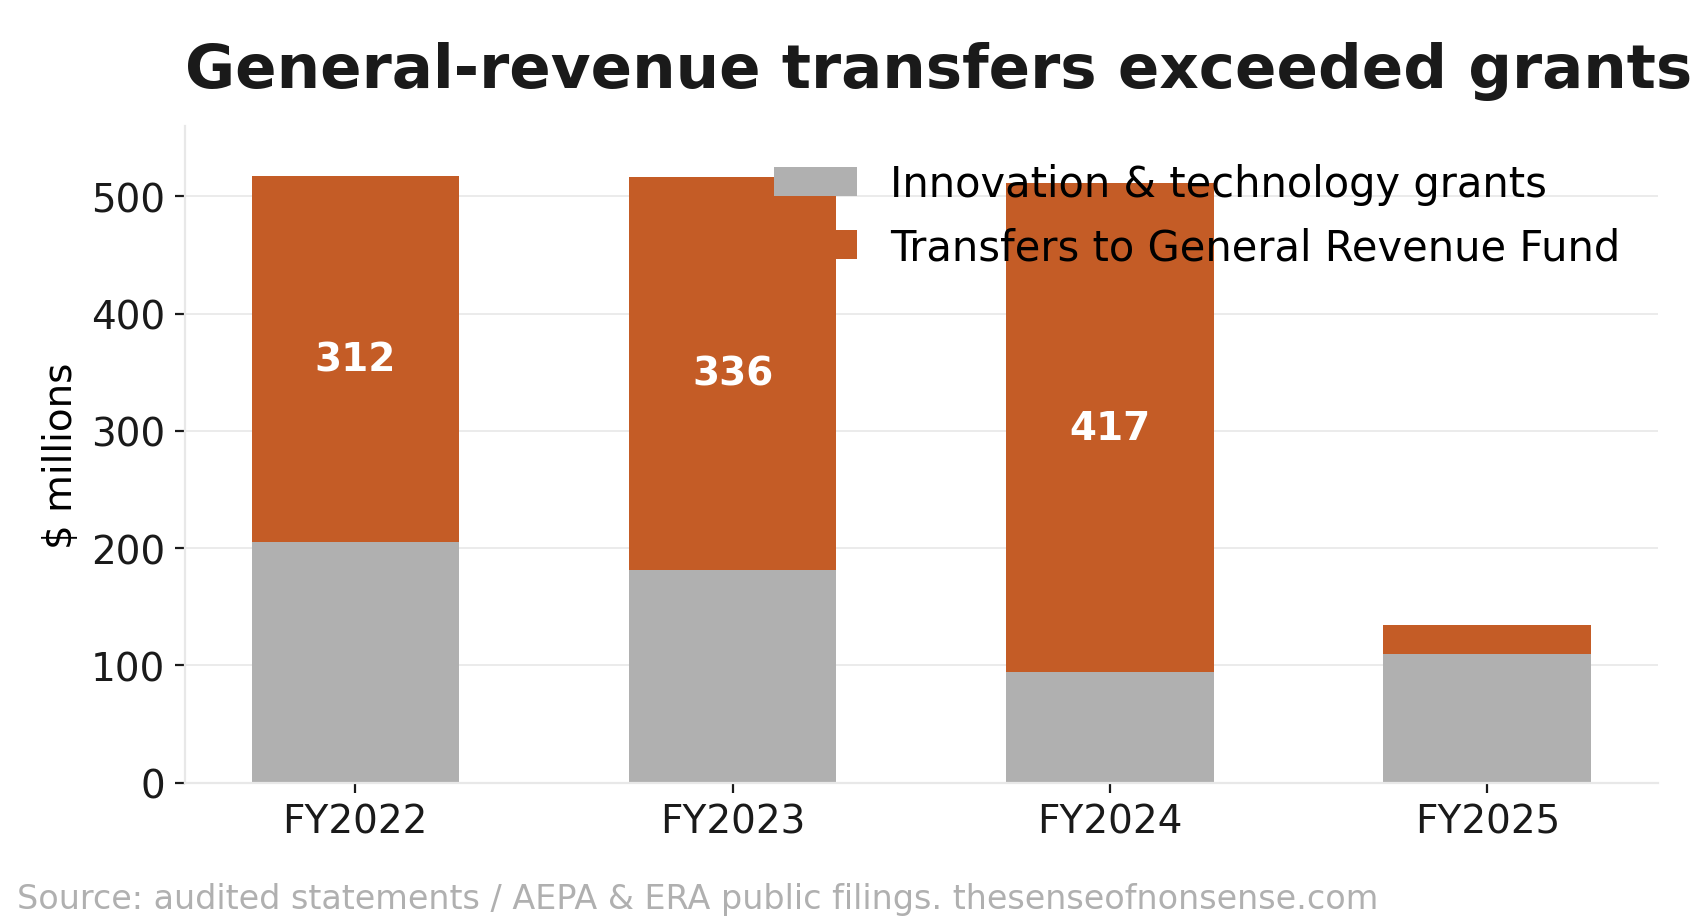
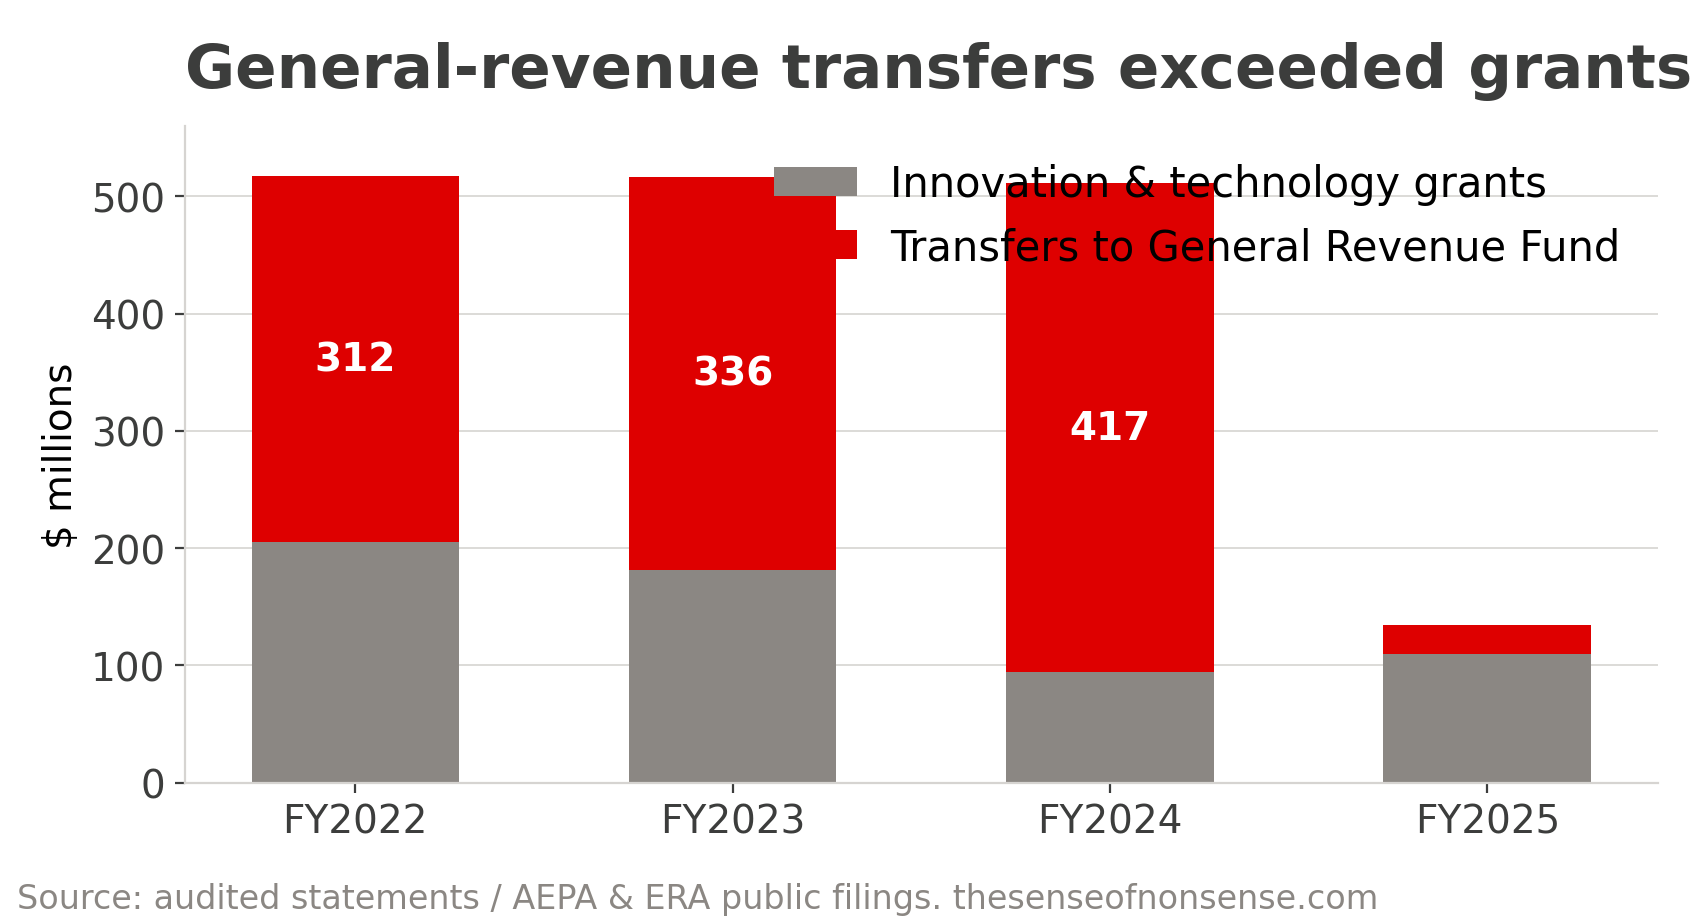
Shift brand palette to glossy red and dark greys.

diff --git a/themes/sense/static/css/sense.css b/themes/sense/static/css/sense.css
@@ -1,24 +1,25 @@
 /* === The Sense of Nonsense — Magazine Theme === */
-/* Light, image-led — Walrus / Atlantic / Vox adjacent */
+/* Light, image-led — red & dark grey palette */
 
 @import url('https://fonts.googleapis.com/css2?family=Libre+Franklin:ital,wght@0,400;0,500;0,600;0,700;1,400&family=Source+Serif+4:ital,opsz,wght@0,8..60,400;0,8..60,600;0,8..60,700;1,8..60,400;1,8..60,600&display=swap');
 
 :root {
+  /* Red & dark grey: Glossy Red / Deep Bright Red / Rich Grey / Manhattan / Titanium */
   --color-bg: #FFFFFF;
   --color-surface: #FFFFFF;
-  --color-wash: #F4F2ED;
-  --color-text: #1A1A1A;
-  --color-text-soft: #3D3D3D;
-  --color-text-muted: #6B6B6B;
-  --color-border: #E6E2DA;
-  --color-border-light: #F0EDE7;
-  --color-accent: #C45C26;
-  --color-accent-hover: #A34A1C;
-  --color-link: #1A1A1A;
-  --color-link-hover: #C45C26;
-  --color-selection: rgba(196, 92, 38, 0.18);
-  --color-blockquote: #F7F5F0;
-  --color-code-bg: #F4F2ED;
+  --color-wash: #F3F3F2;
+  --color-text: #3C3D3C;
+  --color-text-soft: #525252;
+  --color-text-muted: #8B8783;
+  --color-border: #D6D4D1;
+  --color-border-light: #EAE9E7;
+  --color-accent: #DE0000;
+  --color-accent-hover: #B50000;
+  --color-link: #3C3D3C;
+  --color-link-hover: #DE0000;
+  --color-selection: rgba(222, 0, 0, 0.16);
+  --color-blockquote: #F3F3F2;
+  --color-code-bg: #F3F3F2;
 
   --font-serif: 'Source Serif 4', Georgia, 'Times New Roman', serif;
   --font-sans: 'Libre Franklin', -apple-system, BlinkMacSystemFont, 'Segoe UI', sans-serif;

diff --git a/themes/sense/layouts/_default/baseof.html b/themes/sense/layouts/_default/baseof.html
@@ -9,8 +9,8 @@
   <link rel="icon" href="/favicon.svg" type="image/svg+xml" />
   <link rel="icon" href="/favicon-32.png" type="image/png" sizes="32x32" />
   <link rel="apple-touch-icon" href="/apple-touch-icon.png" />
-  <meta name="theme-color" content="#C45C26" />
-  <link rel="stylesheet" href="/css/sense.css?v=5" />
+  <meta name="theme-color" content="#DE0000" />
+  <link rel="stylesheet" href="/css/sense.css?v=6" />
   {{ block "extrahead" . }}{{ end }}
 </head>
 <body class="{{ if .IsHome }}home{{ else if .IsPage }}singular{{ else }}listing{{ end }}">

diff --git a/scripts/regen-tier-charts.py b/scripts/regen-tier-charts.py
@@ -13,15 +13,15 @@ ROOT = Path(__file__).resolve().parents[1]
 SERIES = ROOT / "content" / "series" / "the-tier-files"
 
 BG = "#FFFFFF"
-WASH = "#F7F5F0"
-INK = "#1A1A1A"
-MUTED = "#B0B0B0"
-MUTED_LIGHT = "#D0D0D0"
-HIGHLIGHT = "#C45C26"  # Sense of Nonsense brand
-SECONDARY = "#4A4A4A"
-GRID = "#E8E8E8"
-POS = "#2F6F4E"
-NEG = "#C45C26"
+WASH = "#F3F3F2"
+INK = "#3C3D3C"       # Rich Grey
+MUTED = "#8B8783"    # Titanium
+MUTED_LIGHT = "#C5C3C0"
+HIGHLIGHT = "#DE0000"  # Glossy Red
+SECONDARY = "#525252"  # Manhattan Gray
+GRID = "#D6D4D1"
+POS = "#525252"
+NEG = "#B50000"      # Deep Bright Red
 SOURCE = "Source: audited statements / AEPA & ERA public filings. thesenseofnonsense.com"
 
 plt.rcParams.update({
@@ -75,7 +75,7 @@ def make_cover(chart_path: Path, out: Path, part: int, title: str):
     d = ImageDraw.Draw(cover)
     d.rectangle([0, 0, 8, H], fill=HIGHLIGHT)
     d.rectangle([0, H - band_h, W, H], fill=BG)
-    d.line([(pad, H - band_h), (W - pad, H - band_h)], fill="#E6E2DA", width=2)
+    d.line([(pad, H - band_h), (W - pad, H - band_h)], fill="#D6D4D1", width=2)
     try:
         fk = ImageFont.truetype("C:/Windows/Fonts/arialbd.ttf", 26)
         ft = ImageFont.truetype("C:/Windows/Fonts/georgia.ttf", 48)
@@ -85,7 +85,7 @@ def make_cover(chart_path: Path, out: Path, part: int, title: str):
     y0 = H - band_h + 28
     d.text((pad + 6, y0), f"THE TIER FILES  ·  PART {part}", fill=HIGHLIGHT, font=fk)
     d.text((pad + 6, y0 + 42), title, fill=INK, font=ft)
-    d.text((pad + 6, H - 42), "thesenseofnonsense.com", fill="#6B6B6B", font=fs)
+    d.text((pad + 6, H - 42), "thesenseofnonsense.com", fill="#8B8783", font=fs)
     cover.save(out, "PNG", optimize=True)
     print("wrote", out.relative_to(ROOT))
 
@@ -117,7 +117,7 @@ save(fig, p1 / "tier-fund-flow.png")
 
 # ratio
 fig, ax = plt.subplots(figsize=(8.5, 3.8))
-style_ax(ax, "$1.85 to general revenue for every dollar granted")
+style_ax(ax, "$1.85 to general revenue per dollar granted")
 vals = [590.0, 1088.8]
 labs = ["Innovation & technology grants\n$590M (4-year)", "Transfers to General Revenue Fund\n$1,089M (4-year)"]
 cols = [MUTED, HIGHLIGHT]

diff --git a/content/series/the-tier-files/part-4-the-float/index.md b/content/series/the-tier-files/part-4-the-float/index.md
@@ -42,7 +42,7 @@ Add it up and you get about $650 million actually delivered to projects across t
 
 The number ERA publishes about itself, as of June 2026, is $1.17 billion committed toward 352 projects since 2009. Set those two figures side by side and sit with them a moment. This is a seventeen-year-old organization whose whole job is moving money to emissions reduction projects, and somewhere between 55 and 60 cents of every dollar it currently claims to have committed has ever made it out the door. The rest is either still working through the milestone pipeline, at $375 million of outstanding commitments as of last May, or it belongs to a category the press releases never revisit, which is the money that got announced and then quietly un-happened.
 
-![Line chart of cumulative CCEMC and ERA project disbursements reaching about 655 million dollars by fiscal 2025, far below the dashed line marking the 1,170 million dollar commitment headline, with annual cancellation values annotated.](era-float.png?v=2)
+![Line chart of cumulative CCEMC and ERA project disbursements reaching about 655 million dollars by fiscal 2025, far below the dashed line marking the 1,170 million dollar commitment headline, with annual cancellation values annotated.](era-float.png?v=3)
 
 *Sixteen years of disbursements against the current headline. FY2015 interpolated because the statements were never published.*
 
@@ -60,7 +60,7 @@ In fiscal 2025 the machine hit a milestone of sorts, because the value of agreem
 
 > **In fiscal 2025, Alberta's flagship clean technology funder un-funded more than it funded.**
 
-![Bar chart of contribution agreement value cancelled or terminated each year, rising from 19.9 million dollars in fiscal 2022 to 82.7 million in fiscal 2025, crossing above the dashed line marking the 71.7 million actually paid to projects that year.](p4-cancellations.png?v=2)
+![Bar chart of contribution agreement value cancelled or terminated each year, rising from 19.9 million dollars in fiscal 2022 to 82.7 million in fiscal 2025, crossing above the dashed line marking the 71.7 million actually paid to projects that year.](p4-cancellations.png?v=3)
 
 *The un-funding curve crossed the funding line in fiscal 2025.*
 
@@ -72,7 +72,7 @@ So what happens to a dollar committed to a project that will never exist? This i
 
 Nothing happens to it. That's the answer. It never left ERA in the first place, so there is nothing to recover and nobody to chase. The commitment quietly comes off the books, the cash stays exactly where it has been all along, in the $539.5 million of cash and GICs from last instalment, and the dollar goes back into the pool to await its next announcement. ERA has earned over $104 million in interest in the past five years by holding money in exactly this way, and in fiscal 2024 its interest income was more than half its grant revenue, which is a strange ratio for a granting agency and a perfectly normal one for a bank.
 
-![Flow diagram tracing an announced dollar from press release into the float at ERA, then out either as milestone payments of roughly 55 to 60 cents per dollar or into the quiet-death categories, with dead dollars cycling back to be re-announced, clawed back, or reallocated.](p4-lifecycle.png?v=2)
+![Flow diagram tracing an announced dollar from press release into the float at ERA, then out either as milestone payments of roughly 55 to 60 cents per dollar or into the quiet-death categories, with dead dollars cycling back to be re-announced, clawed back, or reallocated.](p4-lifecycle.png?v=3)
 
 *Sixteen years of audited statements, drawn as a flowchart.*
 

diff --git a/content/series/the-tier-files/part-1-the-billion-dollar-detour/index.md b/content/series/the-tier-files/part-1-the-billion-dollar-detour/index.md
@@ -43,7 +43,7 @@ That matters because Alberta's flagship industrial climate program derives much 
 
 But the numbers tell a messier story.
 
-![Flow diagram tracing a compliance dollar from a regulated facility into the TIER Fund, then out as grants, general-revenue transfers, or held surplus.](p1-path.png?v=2)
+![Flow diagram tracing a compliance dollar from a regulated facility into the TIER Fund, then out as grants, general-revenue transfers, or held surplus.](p1-path.png?v=3)
 
 *Where a compliance dollar goes, drawn from the Statement of Operations. Surplus is a stock; grants and transfers are four-year flows.*
 
@@ -72,7 +72,7 @@ Here is the fund's own accounting for fiscal years ended March 31, in thousands 
 | Transfers to General Revenue Fund | 311,949 | 335,451 | 416,666 | 24,699 |
 | Accumulated surplus, year end | 336,805 | 591,821 | 1,016,606 | 1,105,432 |
 
-![Stacked bar chart of TIER Fund outflows by fiscal year, FY2022 to FY2025, showing transfers to the General Revenue Fund exceeding innovation and technology grants in every year.](tier-fund-flow.png?v=2)
+![Stacked bar chart of TIER Fund outflows by fiscal year, FY2022 to FY2025, showing transfers to the General Revenue Fund exceeding innovation and technology grants in every year.](tier-fund-flow.png?v=3)
 
 *In every year, the transfer to general revenue exceeded the emissions reduction grants.*
 
@@ -82,7 +82,7 @@ Across the four years, the fund moved $1,088.8 million into general revenue and 
 
 > **For every dollar that went to emissions reduction technology (much of it routed to Emissions Reduction Alberta), about $1.85 went to the government's general accounts.**
 
-![Horizontal comparison of four-year TIER Fund grants at 590 million dollars against general-revenue transfers at 1,088.8 million dollars.](p1-ratio.png?v=2)
+![Horizontal comparison of four-year TIER Fund grants at 590 million dollars against general-revenue transfers at 1,088.8 million dollars.](p1-ratio.png?v=3)
 
 *$1.85 to general revenue for every grant dollar. The surplus pile is separate.*
 
@@ -96,7 +96,7 @@ And then there is the bottom row.
 
 While all this money moved through, the fund's accumulated surplus grew from $337 million to $1.105 billion. That is compliance money collected from industry, not granted, not transferred, just held.
 
-![Area chart of the TIER Fund accumulated surplus growing from 337 million dollars at the end of FY2022 to 1,105 million dollars at the end of FY2025.](tier-surplus.png?v=2)
+![Area chart of the TIER Fund accumulated surplus growing from 337 million dollars at the end of FY2022 to 1,105 million dollars at the end of FY2025.](tier-surplus.png?v=3)
 
 *The fund's accumulated surplus tripled in four years and now exceeds $1.1 billion.*
 
@@ -130,7 +130,7 @@ This series is about what the disclosed numbers say once you actually read them 
 
 Look again at that FY2025 revenue figure: $223 million, down 76 per cent from the year before.
 
-![Bar chart of TIER Fund annual revenue: 709 million dollars in FY2022, 772 million in FY2023, 936 million in FY2024, then a 76 per cent collapse to 223 million in FY2025.](tier-revenue.png?v=2)
+![Bar chart of TIER Fund annual revenue: 709 million dollars in FY2022, 772 million in FY2023, 936 million in FY2024, then a 76 per cent collapse to 223 million in FY2025.](tier-revenue.png?v=3)
 
 *Compliance revenue collapsed in FY2025 as facilities switched to discounted credits.*
 

diff --git a/content/series/the-tier-files/part-3-the-climate-fund-that-became-a-bank/index.md b/content/series/the-tier-files/part-3-the-climate-fund-that-became-a-bank/index.md
@@ -23,7 +23,7 @@ If you have ever laddered GICs for a retired parent, the following will feel war
 
 As of May 31, 2025, Emissions Reduction Alberta, the arm's-length agency that receives the largest share of Alberta's industrial carbon compliance grants, held $40 million in short-term GICs at Scotiabank and Canadian Western Bank earning between 4.54 and 5.49 per cent, and another $190 million in long-term GICs at Scotiabank and ATB, maturing between November 2026 and April 2027, earning between 3.75 and 4.14 per cent. Add the $309.5 million sitting in plain cash and you get $539.5 million, parked.
 
-![A statement-style panel reproducing ERA's disclosed holdings: 309.5 million dollars cash, 40 million in short-term GICs at Scotiabank and CWB, 190 million in long-term GICs at Scotiabank and ATB maturing November 2026 to April 2027, totalling 539.5 million.](p3-ladder.png?v=2)
+![A statement-style panel reproducing ERA's disclosed holdings: 309.5 million dollars cash, 40 million in short-term GICs at Scotiabank and CWB, 190 million in long-term GICs at Scotiabank and ATB maturing November 2026 to April 2027, totalling 539.5 million.](p3-ladder.png?v=3)
 
 *The ladder as disclosed, reformatted from Note 5. It reads like a retirement statement because structurally it is one. (Institution totals only; Note 5 does not break the GIC amounts per bank.)*
 
@@ -31,7 +31,7 @@ That's from Note 5 of ERA's own audited statements, and honestly it's a perfectl
 
 > **An agency does not ladder money into 2027 that it intends to spend soon. The portfolio is the strategy, written down.**
 
-![Combination chart showing ERA's cash and investment holdings of roughly half a billion dollars hovering far above annual project disbursements of 44 to 101 million per year, fiscal 2021 through 2025.](p3-holdings.png?v=2)
+![Combination chart showing ERA's cash and investment holdings of roughly half a billion dollars hovering far above annual project disbursements of 44 to 101 million per year, fiscal 2021 through 2025.](p3-holdings.png?v=3)
 
 *Roughly seven and a half years of disbursements, held.*
 
@@ -41,7 +41,7 @@ Some context for the pile. ERA paid out $71.7 million to projects last year. So 
 
 Meanwhile the interest accumulates the way interest does. $4.6 million, then $5.3 million, then $19.2 million, then $29.7 million, then $25.6 million over the past five years, which comes to just over $104 million earned by not spending money. In fiscal 2024 the arrangement achieved something I want to make sure you don't skim past: ERA's interest income, at $29.7 million, exceeded half of its grant revenue for the year, which was $51.9 million. For every two dollars the government gave the agency to fund clean technology, the agency made another dollar by holding what it already had.
 
-![Bar chart of ERA interest income rising from 4.6 million dollars in fiscal 2021 to a peak of 29.7 million in fiscal 2024, highlighted because it exceeded half of that year's grant revenue.](p3-interest.png?v=2)
+![Bar chart of ERA interest income rising from 4.6 million dollars in fiscal 2021 to a peak of 29.7 million in fiscal 2024, highlighted because it exceeded half of that year's grant revenue.](p3-interest.png?v=3)
 
 *Just over $104 million earned in five years by not spending money.*
 

diff --git a/content/series/the-tier-files/part-2-the-eight-million-dollar-regulator/index.md b/content/series/the-tier-files/part-2-the-eight-million-dollar-regulator/index.md
@@ -33,7 +33,7 @@ Here is what that line has looked like in the government's own estimates and yea
 | 2025-26 | 10,541 | 10,541 (forecast) |
 | 2026-27 | 10,541 | estimate year |
 
-![Grouped bar chart of AEPA program 9.1: the voted budget sits at exactly 10.541 million dollars in five consecutive budgets while actual spending came in at 7.1, 7.5, and 8.2 million.](p2-frozen-line.png?v=2)
+![Grouped bar chart of AEPA program 9.1: the voted budget sits at exactly 10.541 million dollars in five consecutive budgets while actual spending came in at 7.1, 7.5, and 8.2 million.](p2-frozen-line.png?v=3)
 
 *Five budgets, one number, underspent in every completed year.*
 
@@ -49,11 +49,11 @@ It's hard to feel a number like $8.2 million without something beside it, so her
 
 Emissions Reduction Alberta, the arm's-length agency that receives the grants and writes the cheques (and which we will spend considerable time with later in this series), reported operating expenses of $11.4 million in its most recent year, and between $9.5 and $11.4 million in each of the past four. So the organization that distributes the money costs more to run, every single year, than the entire provincial operation that regulates the market the money comes from. The cheque-writer out-budgets the referee.
 
-![Grouped bar chart comparing AEPA climate regulatory operations spending of 7 to 8 million dollars per year against ERA operating expenses of 9.5 to 11.4 million per year.](p2-referee-vs-bank.png?v=2)
+![Grouped bar chart comparing AEPA climate regulatory operations spending of 7 to 8 million dollars per year against ERA operating expenses of 9.5 to 11.4 million per year.](p2-referee-vs-bank.png?v=3)
 
 *The agency distributing the money costs more to run than the operation regulating the market. Fiscal years differ by two months (AEPA March 31; ERA May 31).*
 
-![Horizontal bar chart placing the regulatory branch's 8.2 million dollar spend beside the 936 million dollar TIER revenue it polices, ERA's 539 million in holdings, ERA's 25.6 million in interest, and ERA's 11.4 million overhead.](p2-scale.png?v=2)
+![Horizontal bar chart placing the regulatory branch's 8.2 million dollar spend beside the 936 million dollar TIER revenue it polices, ERA's 539 million in holdings, ERA's 25.6 million in interest, and ERA's 11.4 million overhead.](p2-scale.png?v=3)
 
 *The referee, drawn to scale against the money it is responsible for.*
 

diff --git a/AGENTS.md b/AGENTS.md
@@ -90,7 +90,7 @@ Series articles use `series` + `part` front matter. The single.html template aut
 ### Design properties
 
 - Narrow reading width (~680px for articles)
-- Light magazine palette (white canvas, warm wash, terracotta accent `#C45C26`) — light theme only
+- Light magazine palette (white canvas; Glossy Red `#DE0000` / Deep Bright Red `#B50000` accents; Rich Grey `#3C3D3C`, Manhattan `#525252`, Titanium `#8B8783`) — light theme only
 - Serif display/body (Source Serif 4), sans UI (Libre Franklin)
 - Listing surfaces: image-led article cards (3-col grid; featured hero is split layout)
 - Feature images: `cover.png` in page bundles (light-matted chart covers)
